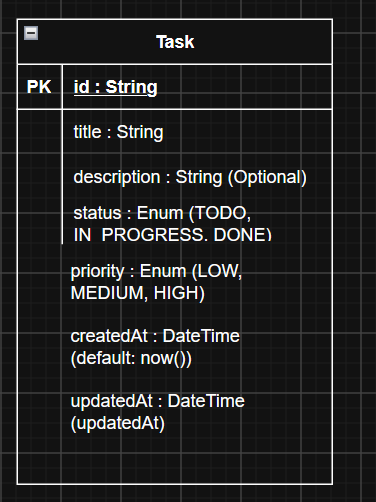
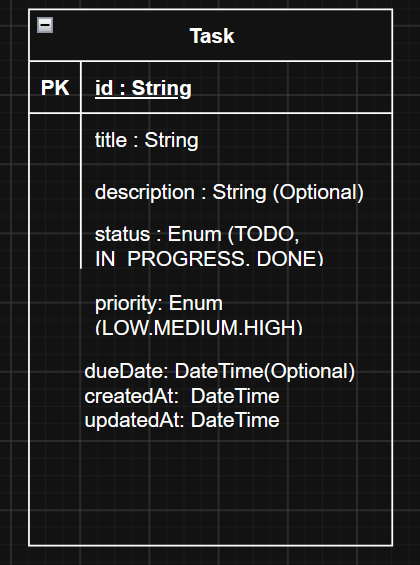
finalize spec and defense report with current implementation status

Changed region(s): [[0.0, 0.0, 1.0, 1.0]]

diff --git a/spec.md b/spec.md
@@ -1,43 +1,47 @@
 # Архітектурна специфікація: Task Tracker System (spec.md)
 
-## 1. Загальний опис системи
-Система є легким вебзастосунком для управління особистими та робочими завданнями:
-* **Клієнтський шар (Vanilla Web Client):** чистий HTML5, CSS3 та JavaScript (Fetch API + DOM API) без використання важких фронтенд-фреймворків (React, Vue, Angular) та окремих бандлерів (Webpack/Vite)
-* **Серверний шар (NestJS REST API):** модульний бекенд на Node.js із суворою типізацією TypeScript, валідацією DTO через `class-validator` та вбудованим сервером роздачі статичних файлів (`@nestjs/serve-static`)
-* **Шар збереження даних:** реляційна вбудована база даних **SQLite** (`prisma/dev.db`), взаємодія з якою реалізована через **Prisma ORM** (End-to-End Type Safety)
+## 1. Загальний опис системи та статус реалізації
 
+Система є вебзастосунком для керування завданнями на базі NestJS, SQLite та  Vanilla JS без важких фронтенд-фреймворків.
+
+### 1.1. Поточний стан реалізації
+
+  **Валідація контрактів:** 
+  * Маршрутизація контролера зафіксована за шляхом `/api/tasks`.
+  * Ідентифікатор завдання `id` типізовано як UUIDv4 із перевіркою через `ParseUUIDPipe` (відхилення некоректних і числових ID зі статусом `400 Bad Request`).
+  * Вхідні данні контролюються за допомогою `class-validator` у `CreateTaskDto` та `UpdateTaskDto` (заборона порожніх значень, перевірка строкових типів і допустимих переліків `enum`).
+ **Шар збереження даних (Етап 2 — Підготовлено схему):** 
+  * Реляційна модель описана в `prisma/schema.prisma` із підтримкою нативних переліків та дедлайнів.
+  * Сервіс `TasksService` на даній момент працює в режимі заглушки для верифікації без виконання фінальних транзакцій у файлі `dev.db`.
+ **Клієнтський інтерфейс** 
+  * Директорію `public/` створено під статичний вебінтерфейс Vanilla JS (`index.html`, `style.css`, `app.js`), роздача якого здійснюватиметься сервером NestJS,на даній момент працює в режимі заглушки.
+  
 
 ## 2. Розбиття на компоненти/модулі та взаємодія
 
 ### 2.1. Опис компонентів та модулів
-1. **Frontend (`public/`):**
-   * `index.html` (View): розмітка форми додавання задач, панелі фільтрів (статус, пріоритет) та контейнера списку завдань
-   * `style.css` (Styles): оформлення інтерфейсу, кольорові індикатори пріоритетів (LOW, MEDIUM, HIGH) та адаптивна верстка
-   * `app.js` (Client Controller): асинхронні виклики через нативний `fetch()` до REST API, перехоплення подій форм та динамічне оновлення DOM без перезавантаження сторінки
+1. **Frontend (public/):**
+   * `index.html`: розмітка форми створення завдань, фільтрів та контейнера списку задач.
+   * `style.css`: базові стилі, кольорові бейджі пріоритетів та адаптивна верстка.
+   * `app.js`: асинхронні виклики через браузерний `fetch()` до `/api/tasks` та динамічне оновлення DOM.
 
-2. **Backend (`src/`):**
-   * `AppModule`: кореневий модуль; реєструє `ServeStaticModule` (роздача директорії `public/`), `PrismaModule` та `TasksModule`
-   * `ServeStaticModule`: транслює статичні файли клієнта на порт сервера, виключаючи префікс `/api/(.*)`
+2. **Backend (src/):**
+   * `AppModule`: кореневий модуль; реєструє `PrismaModule` та `TasksModule`.
    * `TasksModule`:
-     * `TasksController`: описує маршрути `/api/tasks`, мапить Query/Body параметри та валідує вхідні DTO
-     * `TasksService`: реалізує бізнес-логіку (фільтрація, зміна статусів, сортування за датою створення)
-     * `CreateTaskDto` / `UpdateTaskDto`: валідація полів через `class-validator` (заборона порожніх назв, контроль допустимих значень enum)
-   * `PrismaModule` & `PrismaService`: шар абстракції бази даних; керує життєвим циклом підключення до файлу `dev.db` (SQLite) через Dependency Injection (DI)
+     * `TasksController`: реєструє маршрути `/api/tasks`, зв'язує маршрути з `ParseUUIDPipe` та ініціює валідацію вхідних даних.
+     * `CreateTaskDto` / `UpdateTaskDto`: правила `class-validator` для захисту від неправильних значень.
+     * `TasksService`: сервісний шар, що на даному етапі працює в режимі заглушки.
+   * `PrismaModule` та `PrismaService`: зареєстрований шар доступу до бази даних SQLite (`dev.db`) через Prisma ORM.
 
-### 2.2. Взаємодії компонентів
- 
 ### 2.2. Опис взаємодії компонентів
-
-1. **Клієнтська частина (Vanilla UI):** Користувач взаємодіє з інтерфейсом у браузері (створення, фільтрація, перемикання статусу чи видалення завдання) Скрипт `app.js` перехоплює подію через DOM API, запобігає перезавантаженню сторінки (`e.preventDefault()`) і виконує асинхронний HTTP-запит (`fetch()`) із JSON-тілом до REST API сервера
-2. **Роздача статики (`ServeStaticModule`):** При зверненні до кореневої адреси застосунку сервер NestJS автоматично віддає файли `index.html`, `style.css` та `app.js` із каталогу `public/`, не блокуючи маршрути з префіксом `/api/`
-3. **Контролер (`TasksController`):** Приймає вхідний REST-запит (`/api/tasks`), запускає конвеєр валідації DTO через `class-validator`і передає перевірені параметри у сервісний шар
-4. **Бізнес-логіка (`TasksService`):** Обробляє правила предметної області (перевіряє існування запису, задає початковий статус `TODO`, застосовує фільтри) і делегує збереження даних шару ORM.
-5. **Шар даних (`PrismaService` → SQLite):** Prisma транслює виклики типізованих методів клієнта у структуровані SQL-команди до локального файлу бази даних `dev.db`
-6. **Відповідь та оновлення UI:** Результат операції повертається клієнту у форматі JSON (`200 OK` або `201 Created`), після чого `app.js` точково модифікує відповідні вузли дерева DOM без перезавантаження вебсторінки
+1. **Клієнтський виклик:** Клієнт надсилає HTTP-запит до `/api/tasks`.
+2. **Бар'єр валідації:** `TasksController` пропускає запит через глобальний або локальний `ValidationPipe`. Якщо обов'язкові поля відсутні або мають неправильні значення (наприклад, невідомий пріоритет), запит негайно блокується з кодом `400`.
+3. **Обробка ідентифікаторів:** Для точкових маршрутів (`/api/tasks/:id`) `ParseUUIDPipe` перевіряє валідність формату UUID. Запити з некоректними типами (як-от приведення `+id` до числа) відхиляються з помилкою `400`.
+4. **Сервісна обробка:** Валідований DTO потрапляє у `TasksService`, який повертає відповідь відповідно до вимог.
 
 ## 3. Дані та зв'язки (ER-модель)
 
-![](er.png)
+![](standards/er.png)
 
 ### Допустимі значення атрибутів (Enums):
 * **TaskStatus:**
@@ -49,30 +53,29 @@
   * `MEDIUM` середній пріоритет (значення за замовчуванням)
   * `HIGH` високий пріоритет
 
-
 ## 4. Оновлення даних за ключовими сценаріями
-
 ### Сценарій 1: Створення нового завдання
-1. **Користувач:** заповнює поля форми (назва, опис, пріоритет) і натискає «Додати»
-2. **Клієнт (`app.js`):** перехоплює подію `submit`, викликає `POST /api/tasks` із тілом JSON
-3. **TasksController & ValidationPipe:** контролер валідує `CreateTaskDto`. Якщо поле `title` порожнє або пріоритет не відповідає дозволеним значенням, повертається `400 Bad Request`
-4. **TasksService & PrismaService:** сервіс встановлює початковий статус `TODO` та викликає `prisma.task.create()`, зберігаючи запис у файл `dev.db`
-5. **Клієнт (`app.js`):** отримує статус `201 Created` і динамічно додає нову картку в DOM-список
+1. **Користувач:** заповнює поля форми (назва, опис, пріоритет) і натискає Додати.
+2. **TasksController і ValidationPipe:** валідує `CreateTaskDto`. Якщо поле `title` порожнє або пріоритет не відповідає дозволеним значенням, повертається `400 Bad Request`.
+3. **TasksService і PrismaService(Заглушка):** сервіс встановлює початковий статус `TODO` та викликає `prisma.task.create()`.
+4. **Користувач:** отримує статус `201 Created`
 
-### Сценарій 2: Зміна статусу завдання (TODO -> IN_PROGRESS -> DONE)
-1. **Користувач:** змінює стан чекбокса або обирає новий статус у картці завдання
-2. **Клієнт (`app.js`):** зчитує `id` елемента і відправляє `PATCH /api/tasks/:id` із `{ status: newStatus }`
-3. **TasksService:** знаходить запис у базі; якщо його немає — повертає `404 Not Found`. За допомогою `prisma.task.update(...)` записує новий статус і системний час в `updatedAt`
-4. **Клієнт (`app.js`):** отримує `200 OK` та візуально оновлює статус картки без перезавантаження сторінки
+### Сценарій 2: Зміна статусу завдання
+1. **Користувач:** надсилає запит PATCH /api/tasks/:id із новим значенням статусу
+2. **TasksService та ParseUUIDPipe:** знаходять запис у базі; якщо його немає - повертає `404`.
+3. **Користувач:** отримує `200 OK`
 
-### Сценарій 3: Фільтрація задач
-1. **Користувач:** вибирає фільтр за статусом (наприклад, `TODO`) або пріоритетом (`HIGH`)
-2. **Клієнт (`app.js`):** робить запит `GET /api/tasks?status=TODO`
-3. **TasksService:** викликає `prisma.task.findMany({ where: { status } })`
-4. **Клієнт (`app.js`):** очищує контейнер і рендерить оновлений список відфільтрованих задач
+### Сценарій 3: Отримання списку завдань
+1. **Користувач:** виконує виклик GET /api/tasks 
+2. **TasksController:** приймає запит без додаткової фільтрації параметрів і 
+відправляє обробку сервісу.
+3. **TasksService (Заглушка):** викликає метод findAll(), повертаючи відповідь. 
+4. **Користувач:** отримує статус 200 OK.
 
 ### Сценарій 4: Видалення завдання
-1. **Користувач:** натискає кнопку видалення картки
-2. **Клієнт (`app.js`):** викликає `DELETE /api/tasks/:id`.
-3. **TasksService:** видаляє рядок із SQLite через `prisma.task.delete(...)`
-4. **Клієнт (`app.js`):** після статусу `200 OK` видаляє HTML-елемент із дерева DOM
+1. **Користувач:** натискає кнопку видалення
+2. **ParseUUIDPipe:** перевіряє валідність формату ідентифікатора :id (при невалідному рядку повертає 400 Bad Request).
+3. **TasksService(Заглушка):** викликає метод remove(id), повертаючи рядок This action removes a #${id} task
+4. **Користувач:** отримує статус 200 OK.
+
+

diff --git a/standards/architecture-audit.md b/standards/architecture-audit.md
@@ -1,0 +1,28 @@
+Ланцюжок викликів:
+TasksController -> TasksService -> PrismaService -> SQLite    
+База даних і ORM повністю ізольовані від HTTP. Для сутності 
+Task створено єдиний модуль TasksModule без зайвої декомпозиції. Структура відповідає spec.md
+
+## Топ-3 перевірені залежностей
+
+| Пакет | Використання | Висновок |
+| :--- | :--- | :--- |
+| @prisma/client | src/prisma.service.ts | Потрібен для доступу до БД SQLite, runtime dependency |
+| class-validator | src/tasks/dto/ | Потрібен для валідації вхідних DTO у запитах, runtime dependency |
+| oxlint | package.json, pre-commit hook | Потрібен для швидкої статичної перевірки коду, devDependency |
+
+#### Межі простого рішення
+* **Збірка:** `nest build` компілює TypeScript у `dist/`; клієнтська статика (`public/`) роздається через `@nestjs/serve-static`.
+* **Хуки та fail-fast:** У `.husky/pre-commit` для перевірок `lint-staged` та `npm run typecheck`, що гарантує негайне блокування коміту при першій же помилці лінтера чи типів.
+* **Обмеження:** Застосунок використовує локальну файлову БД SQLite.
+* **Відтворюваність:** Версії залежностей зафіксовані в `package.json` та `package-lock.json`; детерміноване встановлення в чистому середовищі перевіряється командою `npm ci`.
+
+На поточній ітерації реалізовано **бар'єр валідації вхідних даних та маршрутизації**:
+1. **Ізоляція та валідація на рівні контролера:** 
+   * Усі вхідні HTTP-запити (`POST`, `PATCH`) проходять крізь конвеєр `ValidationPipe` та перевіряються правилами `class-validator` (`CreateTaskDto`, `UpdateTaskDto`).
+   * Порожній заголовок `title`, невідомий `status` чи неправильний `priority` блокуються ще до передачі в сервісний шар зі статусом `400 Bad Request`.
+2. **Стан сервісного шару та БД (Stub Mode):**
+   * Модель сутності та переліки (`enum`) типізовані в `prisma/schema.prisma`.
+   * Бізнес-логіка в `TasksService` на поточному етапі працює в режимі  заглушки і підтверджує узгодженість DTO, не виконуючи фінальних мутацій у файлі `dev.db`.
+3. **Клієнтський UI (`public/`):**
+   * Директорію створено під роздачу статичного інтерфейсу (`@nestjs/serve-static`), рендеринг DOM є наступним завданням.

diff --git a/DEFENSE.md b/DEFENSE.md
@@ -1,0 +1,30 @@
+# DEFENSE Завдання 1: Фундамент і структура застосунку
+
+**1. Намір і критерії:** Реалізувати бекенд менеджера завдань на базі NestJS, SQLite (Prisma) та Vanilla JS без сторонніх фронтенд-фреймворків із забезпеченням строгої типізації, валідації вхідних даних та автоматизованого контролю якості через Git-хуки. Специфікація: `spec.md`.
+
+| № | Виявлена розбіжність | Опис дефекту | Коміт-виправлення (SHA) |
+|:--|:---------------------|:-------------|:------------------------|
+| 1 | Реєстрація модуля БД | У `spec.md` написано підключення `PrismaModule`, проте в `AppModule.imports` він був відсутній. | `2351e78` (`register PrismaModule in AppModule imports to match spec`) |
+| 2 | Порожні класи DTO | Специфікація вимагає валідацію вхідних даних через `class-validator`, проте файли `CreateTaskDto` та `UpdateTaskDto` були порожніми класами без правил валідації. | `35ec809` (`implement class-validator rules in CreateTaskDto and UpdateTaskDto`) |
+| 3 | Неправильні залежності та маршрутизація | Маршрут було оголошено як `tasks` замість `/api/tasks`. У контролері оператор `+id` зводив строковий UUID моделі Prisma до числа (`number`). Виправлено заміною на `ParseUUIDPipe` та строковий тип `id: string`. | `5092307` (`route to /api/tasks and replace invalid unary +id with ParseUUIDPipe`) |
+
+**3. Ключове рішення:** Вибір NestJS + SQLite (Prisma ORM) + чистий JS замість frontend фреймворків і зовнішніх СУБД.
+
+## 2. Перевірка блокування брудного» коміту через Git Hook
+
+### Команда перевірки:
+Спроба закомітити некоректний код із порушенням правил типізації TypeScript:
+
+додав "const dirtyTestVariable: number = 'this is a dirty string';" в src/tasks/tasks.service.ts
+git add src/tasks/tasks.service.ts
+git commit -m "verify dirty commit rejection"
+
+> app_project@0.0.1 typecheck
+> tsc --noEmit
+
+src/tasks/tasks.service.ts:28:7 - error TS2322: Type 'string' is not assignable to type 'number'.
+
+28 const dirtyTestVariable: number = 'this is a dirty string';
+         ~~~~~~~~~~~~~~~~~
+
+Found 1 error in src/tasks/tasks.service.ts:28
